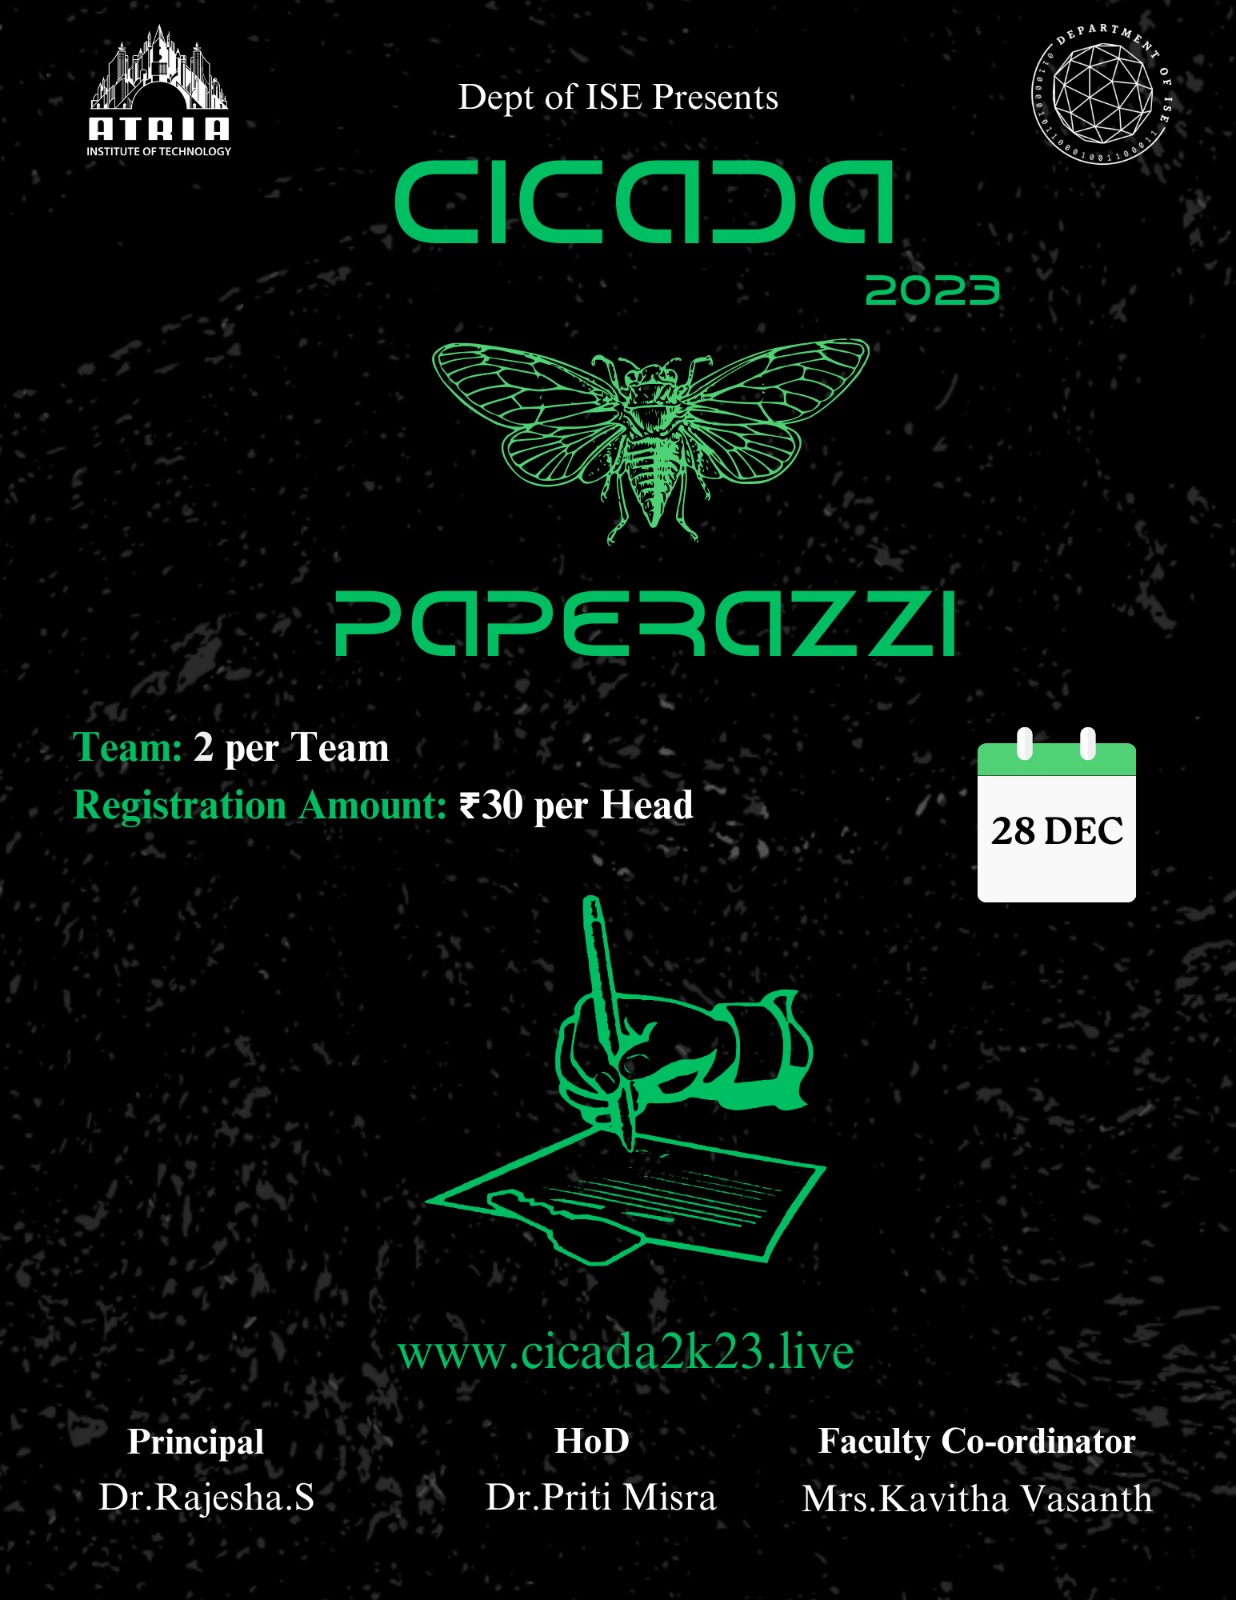
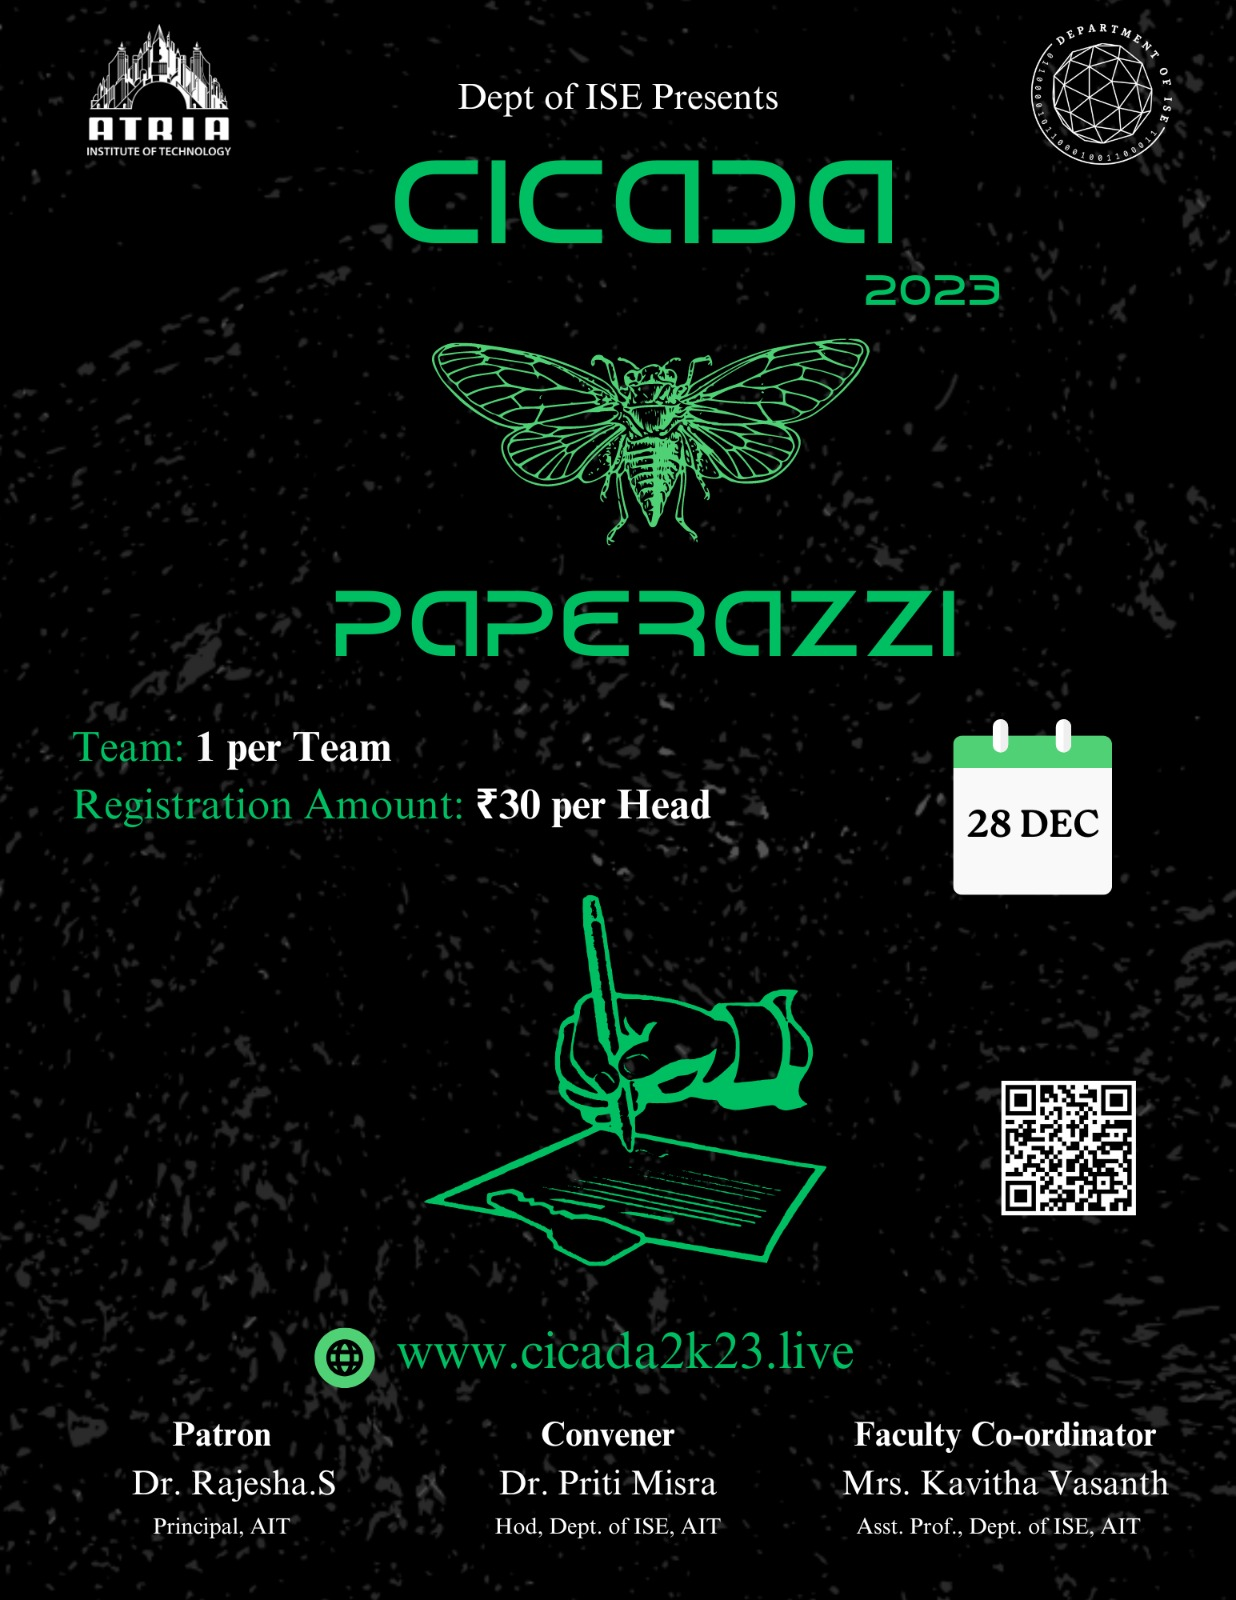
modified:   events/event1.html 	modified:   images/EventList2023/paperazzi.jpeg

diff --git a/events/event1.html b/events/event1.html
@@ -194,7 +194,7 @@
             <tbody>
               <tr>
                 <td class="p-2">Members per Team</td>
-                <td class="p-2">2</td>
+                <td class="p-2">1</td>
               </tr>
               <tr>
                 <td class="p-2">No. of Rounds</td>
